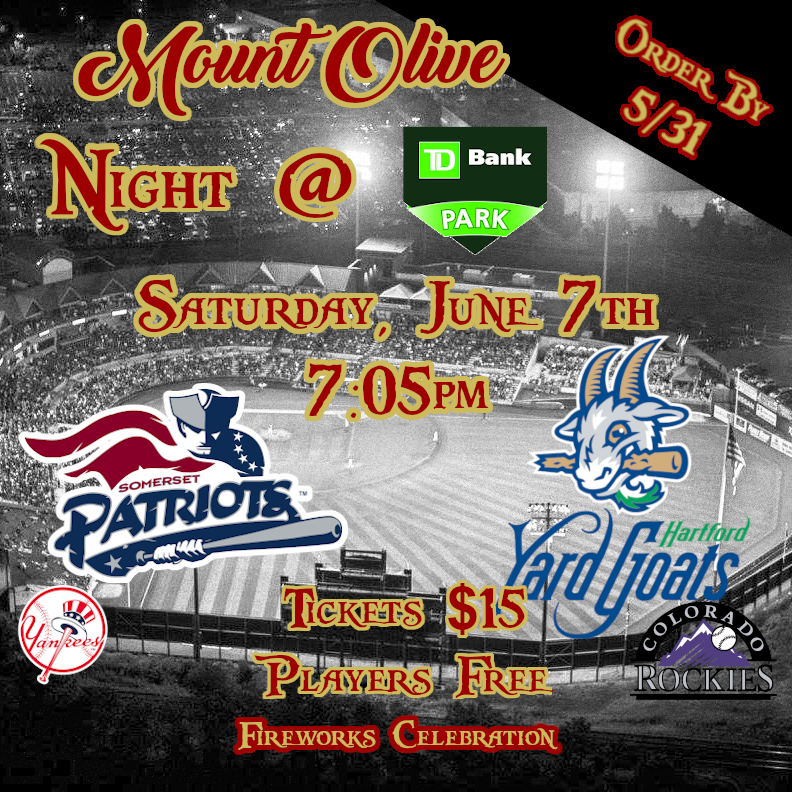
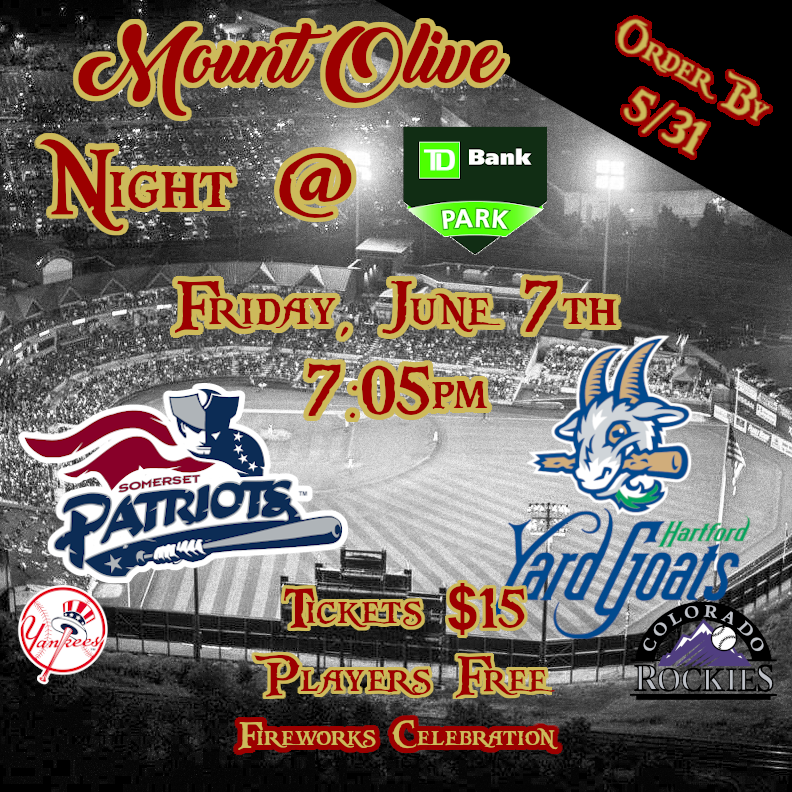
date fix for Patriots game

Changed region(s): [[0.1515, 0.3333, 0.8485, 0.5455]]

diff --git a/newsletters/2024/20240426/index.html b/newsletters/2024/20240426/index.html
@@ -166,7 +166,7 @@
 								</a>
 								<div class="content">
 									<h3>MOBSA Night @ Somerset Patriots</h3>
-									<p>Saturday, June 7th @ 7:05pm. MOBSA Somerset Patriot's Game as they face off against the Hartford Yard Goats followed by a Fireworks Celebration!
+									<p>Friday, June 7th @ 7:05pm. MOBSA Somerset Patriot's Game as they face off against the Hartford Yard Goats followed by a Fireworks Celebration!
 										<br/><a href="//mtolivebsa.sportngin.com/register/form/288189333" target="_blank"><span class="marauder-red news-emphasis-large">Tickets on Sale Now - Order Here</span></a></p>
 									<div class="mobile-only">
 										<div class="live-border-container"><a target="_blank" href="//mtolivebsa.sportngin.com/register/form/288189333"><div class="live-border"></div></a></div>
